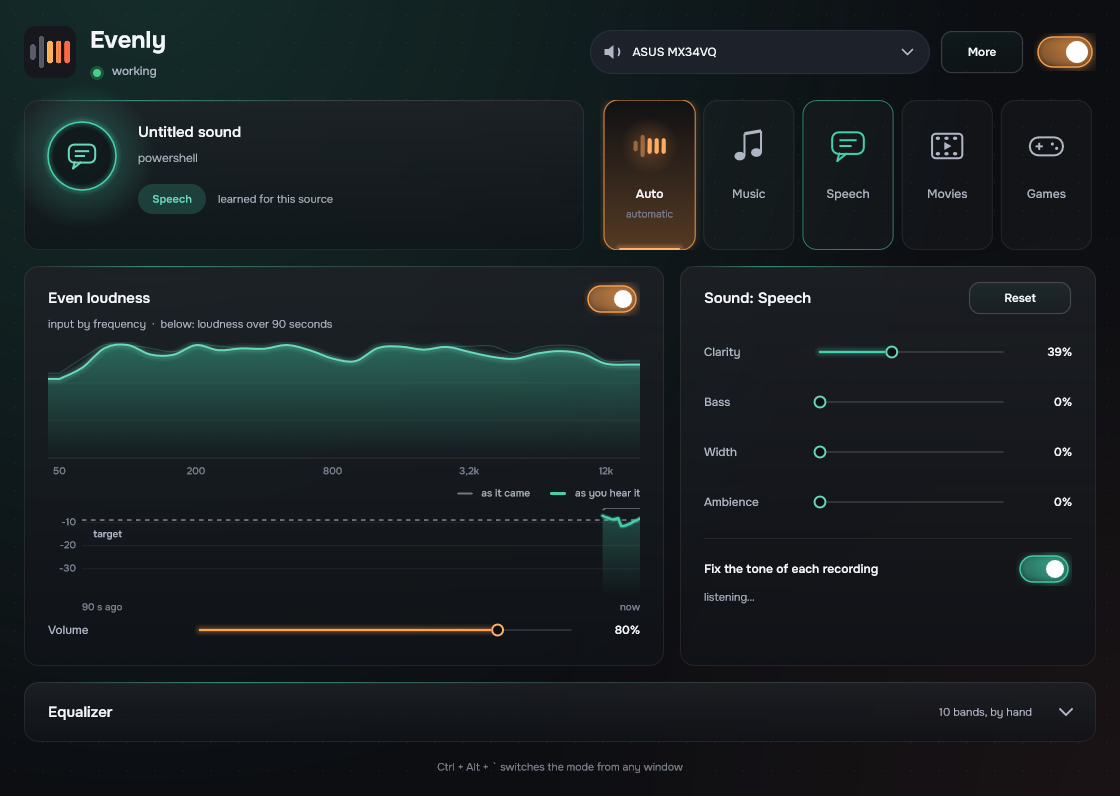
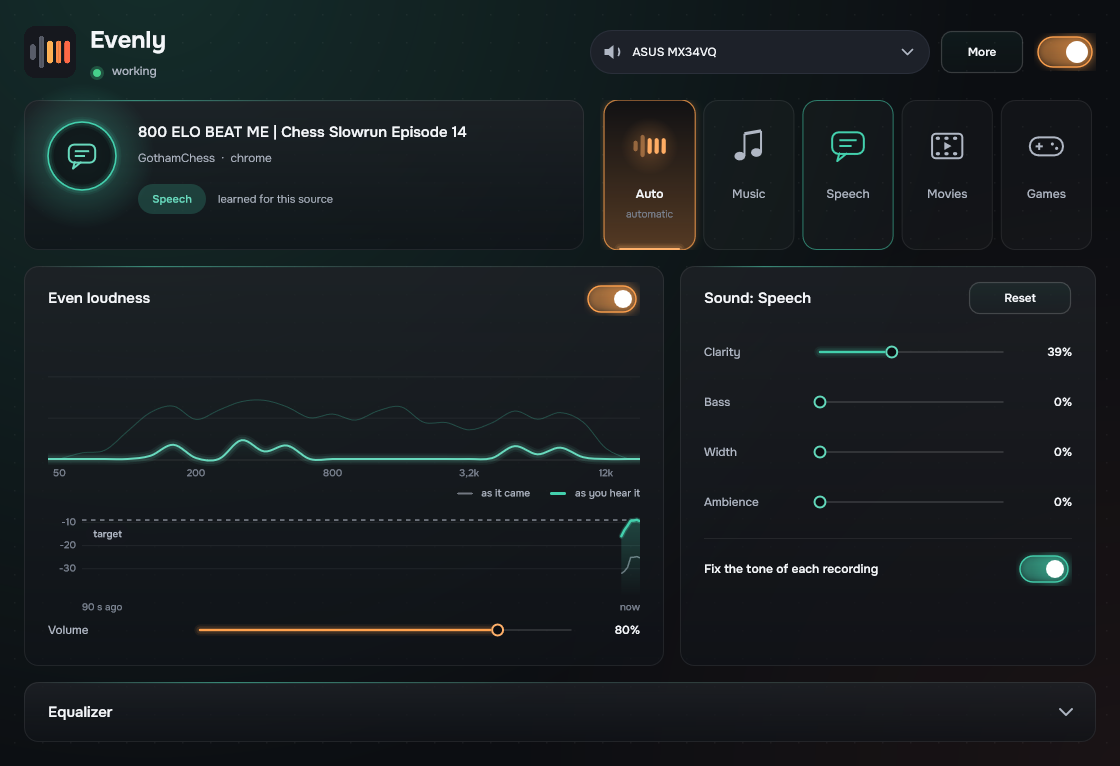
Equalizer panel unfolds smoothly; eased hover and press on buttons, sliders, tiles; menus fade in; less text on the main screen

diff --git a/Source/app/MainComponent.cpp b/Source/app/MainComponent.cpp
@@ -6,7 +6,7 @@ namespace rv::ui
 namespace
 {
 // Layout, in logical pixels (the window scales the whole thing for big monitors).
-constexpr int kTop = 20, kHead = 64, kBannerH = 64, kRow1 = 150, kRow2 = 400, kEqClosed = 60, kEqOpen = 290, kFoot = 30, kBottom = 14, kGap = 16;
+constexpr int kTop = 20, kHead = 64, kBannerH = 64, kRow1 = 150, kRow2 = 400, kEqClosed = 60, kEqOpen = 290, kBottom = 24, kGap = 16;
 constexpr int kPad = 24;
 
 juce::Colour lerpColour (juce::Colour a, juce::Colour b, float t) { return a.interpolatedWith (b, t); }
@@ -33,6 +33,8 @@ void RovnoLookAndFeel::drawLinearSlider (juce::Graphics& g, int x, int y, int w,
 {
     const float cy = (float) y + (float) h * 0.5f;
     const juce::Colour c = s.findColour (juce::Slider::trackColourId);
+    float hover = s.isMouseOverOrDragging() ? 1.0f : 0.0f, press = s.isMouseButtonDown() ? 1.0f : 0.0f;
+    if (auto* ns = dynamic_cast<NeoSlider*> (&s)) { hover = ns->hoverAmount(); press = ns->pressAmount(); }
     g.setColour (juce::Colours::white.withAlpha (0.12f));
     g.fillRoundedRectangle ((float) x, cy - 1.0f, (float) w, 2.0f, 1.0f);
     if (pos > (float) x + 1.0f)
@@ -40,11 +42,10 @@ void RovnoLookAndFeel::drawLinearSlider (juce::Graphics& g, int x, int y, int w,
         juce::Path line;
         line.startNewSubPath ((float) x, cy);
         line.lineTo (pos, cy);
-        glowStroke (g, line, c, 2.4f, s.isMouseOverOrDragging() ? 1.5f : 1.0f);
+        glowStroke (g, line, c, 2.4f, 1.0f + hover * 0.6f);
     }
-    const bool active = s.isMouseOverOrDragging();
-    const float r = s.isMouseButtonDown() ? 8.0f : (active ? 7.5f : 6.5f);
-    if (active) glowDot (g, { pos, cy }, r, c, s.isMouseButtonDown() ? 1.0f : 0.7f);
+    const float r = 6.5f + hover * 1.0f + press * 1.4f;
+    if (hover > 0.02f) glowDot (g, { pos, cy }, r, c, 0.25f + hover * 0.35f + press * 0.3f);
     g.setColour (col::bg);
     g.fillEllipse (pos - r, cy - r, r * 2, r * 2);
     g.setColour (c.brighter (0.2f));
@@ -745,6 +746,7 @@ MainComponent::MainComponent (Controller& controller) : c (controller)
     kcCur = kindColour (c.now().kind);
     setSize (kWidth, preferredHeight());
     syncFromController();
+    ticker.tick = [this] { eqTick(); };
     startTimerHz (30);
 }
 
@@ -813,17 +815,43 @@ void MainComponent::syncFromController()
 
 int MainComponent::preferredHeight() const
 {
+    // While the equalizer is opening or closing the window already has the open height: the panel
+    // unfolds inside it, and the window shrinks only after the panel has folded away.
+    const bool tall = eqOpen || eqAnim > 0.001f;
     return kTop + kHead + kGap + (banner() != Banner::None ? kBannerH + kGap : 0) + kRow1 + kGap + kRow2 + kGap
-           + (eqOpen ? kEqOpen : kEqClosed) + 10 + kFoot + kBottom;
+           + (tall ? kEqOpen : kEqClosed) + kBottom;
 }
 
-void MainComponent::setEqOpen (bool open)
+int MainComponent::eqHeight() const
+{
+    const float t = eqAnim < 0.5f ? 4 * eqAnim * eqAnim * eqAnim : 1 - std::pow (-2 * eqAnim + 2, 3.0f) / 2;   // ease in-out
+    return kEqClosed + juce::roundToInt ((float) (kEqOpen - kEqClosed) * t);
+}
+
+void MainComponent::setEqOpen (bool open, bool animate)
 {
     eqOpen = open;
-    eqAnim = open ? 1.0f : 0.0f;
+    if (! animate) eqAnim = open ? 1.0f : 0.0f;
     setSize (kWidth, preferredHeight());
     resized();
     repaint();
+    if (animate) ticker.startTimerHz (60);
+}
+
+// One step of the equalizer panel opening or closing (60 Hz, only while it moves).
+void MainComponent::eqTick()
+{
+    const float target = eqOpen ? 1.0f : 0.0f;
+    const float speed = 0.075f;   // about 0.22 s end to end
+    eqAnim = eqAnim < target ? std::min (target, eqAnim + speed) : std::max (target, eqAnim - speed);
+    const float th = eqHover ? 1.0f : 0.0f;
+    eqHoverAmt += (th - eqHoverAmt) * 0.3f;
+    const bool settled = eqAnim == target && std::abs (th - eqHoverAmt) < 0.01f;
+    if (settled) { eqHoverAmt = th; ticker.stopTimer(); }
+    const int h = preferredHeight();
+    if (getHeight() != h) setSize (kWidth, h);   // grows with the first step, shrinks after the last
+    resized();
+    repaint (0, eqR.getY() - 4, getWidth(), getHeight() - eqR.getY() + 4);
 }
 
 void MainComponent::soundChanged()
@@ -861,9 +889,6 @@ void MainComponent::timerCallback()
     const juce::String nowKey = st.title + st.artist + whyText() + toneText() + (st.running ? "1" : "0");
     if (nowKey != lastNow) { lastNow = nowKey; needPaint = true; }
     if (eqOpen) eq->set (c.tweaks (shownKind).eq, c.sound (shownKind).eq, st.tone, kcCur);
-    const float eqTarget = eqOpen ? 1.0f : 0.0f;
-    if (std::abs (eqTarget - eqAnim) > 0.01f) { eqAnim += (eqTarget - eqAnim) * 0.35f; needPaint = true; }
-    else eqAnim = eqTarget;
     if (needPaint) repaint();
 }
 
@@ -885,9 +910,7 @@ juce::String MainComponent::whyText() const
 juce::String MainComponent::toneText() const
 {
     const auto& st = c.now();
-    if (! c.toneAuto()) return L ("выключено", "off");
-    if (c.sound (st.kind).toneStrength <= 0) return L ("в этом режиме не нужна", "not used in this mode");
-    if (st.toneConfidence < 1.0f) return L ("слушаю запись…", "listening…");
+    if (! c.toneAuto() || c.sound (st.kind).toneStrength <= 0 || st.toneConfidence < 1.0f) return {};
     // Low = 60-210 Hz, mids = 400 Hz-1.4 kHz, clarity = 2.5-8.6 kHz (16 kHz hardly matters to the ear).
     const float low = (st.tone[0] + st.tone[1] + st.tone[2]) / 3;
     const float mid = (st.tone[3] + st.tone[4] + st.tone[5]) / 3;
@@ -901,7 +924,7 @@ juce::String MainComponent::toneText() const
     if (! parts.isEmpty()) return parts.joinIntoString (" · ");
     float most = 0;
     for (float t : st.tone) most = std::max (most, std::abs (t));
-    return most > 0.7f ? L ("небольшая правка тона", "a small tone touch-up") : L ("запись звучит нормально, правка не нужна", "the recording sounds fine as it is");
+    return most > 0.7f ? L ("небольшая правка тона", "a small tone touch-up") : juce::String();
 }
 
 void MainComponent::paint (juce::Graphics& g)
@@ -998,8 +1021,7 @@ void MainComponent::paint (juce::Graphics& g)
     g.setFont (font (15.0f));
     juce::String sub = st.artist;
     if (st.app.isNotEmpty()) sub = sub.isNotEmpty() ? sub + "  ·  " + st.app : st.app;
-    if (nothing) sub = L ("Включите видео или музыку: режим подберётся сам", "Play a video or music: the mode picks itself");
-    else if (unnamed) sub = L ("программа не сообщила название, режим по звуку", "no title from the app; the mode follows the sound");
+    if (nothing || unnamed) sub = {};
     g.drawText (sub, nr.removeFromTop (24), juce::Justification::centredLeft, true);
     nr.removeFromTop (14);
     auto chip = nr.removeFromTop (30);
@@ -1021,15 +1043,7 @@ void MainComponent::paint (juce::Graphics& g)
     g.setColour (col::text);
     g.setFont (font (19.0f, 600));
     g.drawText (L ("Ровная громкость", "Even loudness"), lr.removeFromTop (28).withTrimmedRight (70), juce::Justification::centredLeft);
-    // legend of the two lines under the chart, and what the bars are
-    g.setColour (col::dim);
-    g.setFont (font (14.0f));
-    {
-        auto leg = lr.removeFromTop (24);
-        g.drawText (st.running ? L ("частоты на входе  ·  внизу — громкость за 90 секунд", "input by frequency  ·  below: loudness over 90 seconds")
-                               : L ("всё оживёт, когда пойдёт звук", "it all comes alive with sound"),
-                    leg, juce::Justification::centredLeft, true);
-    }
+    lr.removeFromTop (24);
     // two-line legend sits at the right of the graph's top edge
     {
         const int gy = graph->getY() - 6;
@@ -1082,18 +1096,14 @@ void MainComponent::paint (juce::Graphics& g)
                 juce::Rectangle<int> (soundR.getX() + 24, toneSwitch->getY(), soundR.getWidth() - 48 - 64, toneSwitch->getHeight()), juce::Justification::centredLeft, true);
     g.setColour (col::dim);
     g.setFont (font (14.0f));
-    g.drawFittedText (toneText(), juce::Rectangle<int> (soundR.getX() + 24, toneSwitch->getBottom() + 4, soundR.getWidth() - 48, 44), juce::Justification::topLeft, 2);
+    if (toneText().isNotEmpty())
+        g.drawFittedText (toneText(), juce::Rectangle<int> (soundR.getX() + 24, toneSwitch->getBottom() + 4, soundR.getWidth() - 48, 44), juce::Justification::topLeft, 2);
 
     // EQ
-    drawCard (g, eqR.toFloat(), eqHover ? col::card.brighter (0.05f) : col::card);
+    drawCard (g, eqR.toFloat(), col::card.brighter (0.05f * eqHoverAmt));
     g.setColour (col::text);
     g.setFont (font (19.0f, 600));
     g.drawText (L ("Эквалайзер", "Equalizer"), eqHeadR.reduced (24, 0), juce::Justification::centredLeft);
-    g.setColour (col::dim);
-    g.setFont (font (14.0f));
-    g.drawText (eqOpen ? L ("перетаскивайте точки · двойной щелчок — сброс точки", "drag the points · double-click resets a point")
-                       : L ("10 полос, правка вручную", "10 bands, by hand"),
-                eqHeadR.reduced (24, 0).withTrimmedLeft (140).withTrimmedRight (40), juce::Justification::centredRight);
     {
         const float cx = (float) eqHeadR.getRight() - 30.0f, cy = (float) eqHeadR.getCentreY();
         juce::Path ch;
@@ -1104,10 +1114,6 @@ void MainComponent::paint (juce::Graphics& g)
                       juce::AffineTransform::rotation (turn).translated (cx, cy));
     }
 
-    // footer
-    g.setColour (col::faint);
-    g.setFont (font (13.5f));
-    g.drawText (L ("Ctrl + Alt + ` — быстро сменить режим из любого окна", "Ctrl + Alt + ` switches the mode from any window"), footR, juce::Justification::centred);
 }
 
 void MainComponent::resized()
@@ -1143,7 +1149,7 @@ void MainComponent::resized()
     row2.removeFromLeft (kGap);
     soundR = row2;
     levelSwitch->setBounds (juce::Rectangle<int> (loudR.getRight() - 24 - 56, loudR.getY() + 16, 56, 34));
-    spectrum->setBounds (loudR.getX() + 24, loudR.getY() + 76, loudR.getWidth() - 48, 138);
+    spectrum->setBounds (loudR.getX() + 24, loudR.getY() + 66, loudR.getWidth() - 48, 150);
     graph->setBounds (loudR.getX() + 24, loudR.getY() + 242, loudR.getWidth() - 48, 108);
     volume.setBounds (loudR.getX() + 24 + 140, loudR.getBottom() - 18 - 36, loudR.getWidth() - 48 - 140 - 56, 36);
 
@@ -1158,17 +1164,20 @@ void MainComponent::resized()
         toneSwitch->setBounds (soundR.getRight() - 24 - 56, y + 20, 56, 34);
     }
     r.removeFromTop (kGap);
-    eqR = r.removeFromTop (eqOpen ? kEqOpen : kEqClosed);
+    eqR = r.removeFromTop (eqHeight());
     eqHeadR = eqR.withHeight (kEqClosed);
-    eq->setVisible (eqOpen);
-    if (eqOpen) eq->setBounds (eqR.withTrimmedTop (kEqClosed - 4).reduced (16, 10));
-    r.removeFromTop (10);
-    footR = r.removeFromTop (kFoot);
+    const bool plotShown = eqAnim > 0.02f;
+    eq->setVisible (plotShown);
+    if (plotShown)
+    {
+        eq->setBounds (eqR.withTrimmedTop (kEqClosed - 4).reduced (16, 10));
+        eq->setAlpha (juce::jlimit (0.0f, 1.0f, (eqAnim - 0.25f) / 0.75f));
+    }
 }
 
 void MainComponent::mouseUp (const juce::MouseEvent& e)
 {
-    if (eqHeadR.contains (e.getPosition())) setEqOpen (! eqOpen);
+    if (eqHeadR.contains (e.getPosition())) setEqOpen (! eqOpen, true);
 }
 
 void MainComponent::mouseMove (const juce::MouseEvent& e)
@@ -1178,13 +1187,13 @@ void MainComponent::mouseMove (const juce::MouseEvent& e)
     {
         eqHover = h;
         setMouseCursor (h ? juce::MouseCursor::PointingHandCursor : juce::MouseCursor::NormalCursor);
-        repaint (eqR);
+        ticker.startTimerHz (60);
     }
 }
 
 void MainComponent::mouseExit (const juce::MouseEvent&)
 {
-    if (eqHover) { eqHover = false; setMouseCursor (juce::MouseCursor::NormalCursor); repaint (eqR); }
+    if (eqHover) { eqHover = false; setMouseCursor (juce::MouseCursor::NormalCursor); ticker.startTimerHz (60); }
 }
 
 void MainComponent::bannerAction()
@@ -1220,6 +1229,8 @@ void MainComponent::showMoreMenu()
                                                        + " 0x" + juce::String::toHexString ((int) ks.keepError) + ")"; break;
             default: break;
         }
+    m.addItem (500, L ("Ctrl + Alt + ` — быстро сменить режим из любого окна", "Ctrl + Alt + ` switches the mode from any window"), false);
+    m.addSeparator();
     m.addItem (1, keepText, true, c.keepAwake());
     m.addItem (2, L ("Громкость как в FxSound (без выравнивания)", "FxSound-style loudness (no leveling)"), true, c.fxSoundLoudness());
     m.addSeparator();

diff --git a/Source/app/MainComponent.h b/Source/app/MainComponent.h
@@ -33,6 +33,63 @@ public:
     void getIdealPopupMenuItemSize (const juce::String& text, bool isSeparator, int standardHeight, int& idealWidth, int& idealHeight) override;
 };
 
+// A button that eases into hover and press instead of jumping.
+class NeoButton : public juce::TextButton, private juce::Timer
+{
+public:
+    NeoButton() { setMouseCursor (juce::MouseCursor::PointingHandCursor); }
+    void paintButton (juce::Graphics& g, bool, bool) override
+    {
+        const bool primary = getProperties().getWithDefault ("primary", false);
+        const juce::Colour c = primary ? col::accent : neoTint();
+        auto r = getLocalBounds().toFloat().reduced (1.5f + pressA * 1.2f);
+        juce::Path p;
+        p.addRoundedRectangle (r, 10.0f);
+        if (hoverA > 0.02f) juce::DropShadow (c.withAlpha ((primary ? 0.45f : 0.30f) * hoverA), 10, { 0, 0 }).drawForPath (g, p);
+        g.setGradientFill (juce::ColourGradient (c.withAlpha ((primary ? 0.30f : 0.06f) + hoverA * 0.10f + pressA * 0.12f), 0, r.getY(),
+                                                 c.withAlpha ((primary ? 0.12f : 0.02f) + hoverA * 0.03f), 0, r.getBottom(), false));
+        g.fillPath (p);
+        g.setColour ((primary ? c.withAlpha (0.95f) : juce::Colours::white.withAlpha (0.18f)).interpolatedWith (c.withAlpha (0.9f), primary ? 0.0f : hoverA));
+        g.strokePath (p, juce::PathStrokeType (1.2f));
+        g.setColour (primary ? col::accent.brighter (0.5f) : col::text);
+        g.setFont (font (15.0f, 600));
+        g.drawText (getButtonText(), getLocalBounds(), juce::Justification::centred, true);
+    }
+    void buttonStateChanged() override { startTimerHz (60); }
+private:
+    void timerCallback() override
+    {
+        const float th = isOver() ? 1.0f : 0.0f, tp = isDown() ? 1.0f : 0.0f;
+        hoverA += (th - hoverA) * 0.3f;
+        pressA += (tp - pressA) * 0.45f;
+        if (std::abs (th - hoverA) < 0.01f && std::abs (tp - pressA) < 0.01f) { hoverA = th; pressA = tp; stopTimer(); }
+        repaint();
+    }
+    float hoverA = 0, pressA = 0;
+};
+
+// A slider whose thumb and glow ease with the mouse.
+class NeoSlider : public juce::Slider, private juce::Timer
+{
+public:
+    float hoverAmount() const { return hoverA; }
+    float pressAmount() const { return pressA; }
+    void mouseEnter (const juce::MouseEvent& e) override { Slider::mouseEnter (e); startTimerHz (60); }
+    void mouseExit (const juce::MouseEvent& e) override { Slider::mouseExit (e); startTimerHz (60); }
+    void mouseDown (const juce::MouseEvent& e) override { Slider::mouseDown (e); startTimerHz (60); }
+    void mouseUp (const juce::MouseEvent& e) override { Slider::mouseUp (e); startTimerHz (60); }
+private:
+    void timerCallback() override
+    {
+        const float th = isMouseOverOrDragging() ? 1.0f : 0.0f, tp = isMouseButtonDown() ? 1.0f : 0.0f;
+        hoverA += (th - hoverA) * 0.3f;
+        pressA += (tp - pressA) * 0.45f;
+        if (std::abs (th - hoverA) < 0.01f && std::abs (tp - pressA) < 0.01f) { hoverA = th; pressA = tp; stopTimer(); }
+        repaint();
+    }
+    float hoverA = 0, pressA = 0;
+};
+
 class Switch;
 class ModeBar;
 class Spectrum;
@@ -50,7 +107,7 @@ public:
     void mouseUp (const juce::MouseEvent&) override;
     void mouseMove (const juce::MouseEvent&) override;
     void mouseExit (const juce::MouseEvent&) override;
-    void setEqOpen (bool open);
+    void setEqOpen (bool open, bool animate = false);   // animated from the UI, at once for snapshots
     int preferredHeight() const;
     static constexpr int kWidth = 1120;
     static inline bool hideBanner = false;   // for the README picture (--snapshot --clean)
@@ -65,6 +122,9 @@ private:
     void soundChanged();
     void showMoreMenu();
     void refreshTexts();
+    void eqTick();
+    int eqHeight() const;
+    struct Ticker : juce::Timer { std::function<void()> tick; void timerCallback() override { if (tick) tick(); } } ticker;
     void bannerAction();
     juce::String toneText() const;
     juce::String whyText() const;
@@ -79,12 +139,12 @@ private:
     std::unique_ptr<LevelGraph> graph;
     std::unique_ptr<EqEditor> eq;
     std::unique_ptr<DeviceBox> deviceBox;
-    juce::Slider volume, fid, bass, surr, amb;
-    juce::TextButton resetSound, bannerButton, moreButton;
+    NeoSlider volume, fid, bass, surr, amb;
+    NeoButton resetSound, bannerButton, moreButton;
     juce::StringArray deviceGuids;
     Kind shownKind = Kind::Unknown;
     bool eqOpen = false, syncing = false, eqHover = false;
-    float eqAnim = 0.0f;                 // 0 closed .. 1 open (chevron, fade of the plot)
+    float eqAnim = 0.0f, eqHoverAmt = 0.0f;                 // 0 closed .. 1 open (chevron, fade of the plot)
     juce::Colour kcCur = col::accent;    // the mode colour, eased toward the current mode's
     juce::Image logo, gridImage;
     int graphTick = 0;

diff --git a/Source/app/Main.cpp b/Source/app/Main.cpp
@@ -24,6 +24,25 @@ void applyScale (int percent)
     juce::Desktop::getInstance().setGlobalScaleFactor (s);
 }
 
+// JUCE popup menus appear at once; this fades every new menu window in (submenus and the tray menu too).
+class MenuFader : private juce::Timer
+{
+public:
+    MenuFader() { startTimer (15); }
+private:
+    void timerCallback() override
+    {
+        auto& desktop = juce::Desktop::getInstance();
+        for (int i = 0; i < desktop.getNumComponents(); ++i)
+            if (auto* c = desktop.getComponent (i))
+                if (c->getName() == "menu" && ! c->getProperties().contains ("evenlyFaded"))
+                {
+                    c->getProperties().set ("evenlyFaded", true);
+                    desktop.getAnimator().fadeIn (c, 120);
+                }
+    }
+};
+
 class MainWindow : public juce::DocumentWindow
 {
 public:
@@ -167,6 +186,7 @@ private:
     }
 
     rv::ui::RovnoLookAndFeel lookAndFeel;
+    rv::ui::MenuFader menuFader;
     std::unique_ptr<rv::Controller> controller;
     std::unique_ptr<rv::ui::MainWindow> window;
     std::unique_ptr<rv::ui::QuickMenu> quickMenu;
